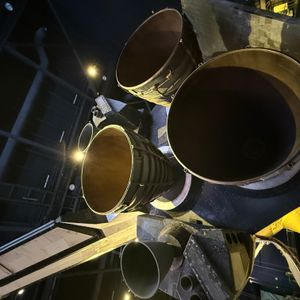
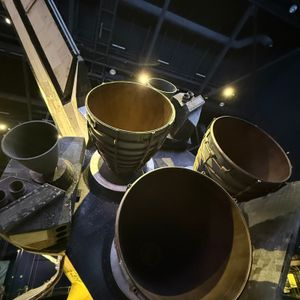
Fix EXIF orientation issues in photo processing
- Added .rotate() to Sharp pipeline for automatic EXIF orientation handling
- Reprocessed all Kennedy Space Center images with correct orientation
- Updated album.ts with proper dimensions after EXIF rotation applied
- Images now display correctly as intended in Preview/iOS Photos edits
- Fixes capsule, booster, and other rotated images appearing 90° off
- Both web and thumbnail versions now respect original orientation
- Future galleries will automatically handle EXIF orientation

🤖 Generated with [Claude Code](https://claude.ai/code)

diff --git a/docusaurus/docs/gallery/2025/kennedy-space-center/album.ts b/docusaurus/docs/gallery/2025/kennedy-space-center/album.ts
@@ -33,8 +33,8 @@ export const kennedySpaceCenterPhotos = [
   },
   {
     src: require('./img/web/05_atlantis_back.jpg').default,
-    width: 1200,
-    height: 900,
+    width: 900,
+    height: 1200,
     alt: 'kennedy-space-center',
     caption: "atlantis back",
     thumb: require('./img/thumbs/thumb_05_atlantis_back.jpg').default,
@@ -49,16 +49,16 @@ export const kennedySpaceCenterPhotos = [
   },
   {
     src: require('./img/web/07_wings.jpg').default,
-    width: 1200,
-    height: 900,
+    width: 900,
+    height: 1200,
     alt: 'kennedy-space-center',
     caption: "wings",
     thumb: require('./img/thumbs/thumb_07_wings.jpg').default,
   },
   {
     src: require('./img/web/08_atlantis_close.jpg').default,
-    width: 1200,
-    height: 900,
+    width: 900,
+    height: 1200,
     alt: 'kennedy-space-center',
     caption: "atlantis close",
     thumb: require('./img/thumbs/thumb_08_atlantis_close.jpg').default,
@@ -73,8 +73,8 @@ export const kennedySpaceCenterPhotos = [
   },
   {
     src: require('./img/web/10_space_shuttle.jpg').default,
-    width: 1200,
-    height: 900,
+    width: 900,
+    height: 1200,
     alt: 'kennedy-space-center',
     caption: "space shuttle",
     thumb: require('./img/thumbs/thumb_10_space_shuttle.jpg').default,
@@ -121,16 +121,16 @@ export const kennedySpaceCenterPhotos = [
   },
   {
     src: require('./img/web/15_booster.jpg').default,
-    width: 1200,
-    height: 900,
+    width: 900,
+    height: 1200,
     alt: 'kennedy-space-center',
     caption: "booster",
     thumb: require('./img/thumbs/thumb_15_booster.jpg').default,
   },
   {
     src: require('./img/web/16_capsule.jpg').default,
-    width: 1200,
-    height: 900,
+    width: 900,
+    height: 1200,
     alt: 'kennedy-space-center',
     caption: "capsule",
     thumb: require('./img/thumbs/thumb_16_capsule.jpg').default,
@@ -153,16 +153,16 @@ export const kennedySpaceCenterPhotos = [
   },
   {
     src: require('./img/web/19_dream_chaser.jpg').default,
-    width: 1200,
-    height: 900,
+    width: 900,
+    height: 1200,
     alt: 'kennedy-space-center',
     caption: "dream chaser",
     thumb: require('./img/thumbs/thumb_19_dream_chaser.jpg').default,
   },
   {
     src: require('./img/web/20_dream_chaser_back.jpg').default,
-    width: 1200,
-    height: 900,
+    width: 900,
+    height: 1200,
     alt: 'kennedy-space-center',
     caption: "dream chaser back",
     thumb: require('./img/thumbs/thumb_20_dream_chaser_back.jpg').default,

diff --git a/scripts/gallery-processor.js b/scripts/gallery-processor.js
@@ -158,6 +158,7 @@ class GalleryProcessor {
     console.log(`🌐 Processing for web: ${path.basename(inputPath)}`);
 
     let pipeline = sharp(inputPath)
+      .rotate() // Auto-rotate based on EXIF orientation
       .resize(this.options.webMaxWidth, this.options.webMaxHeight, {
         fit: 'inside',
         withoutEnlargement: true
@@ -202,6 +203,7 @@ class GalleryProcessor {
     console.log(`🖼  Generating thumbnail: ${path.basename(inputPath)}`);
 
     await sharp(inputPath)
+      .rotate() // Auto-rotate based on EXIF orientation
       .resize(this.options.thumbSize, this.options.thumbSize, {
         fit: 'cover',
         position: 'center'
